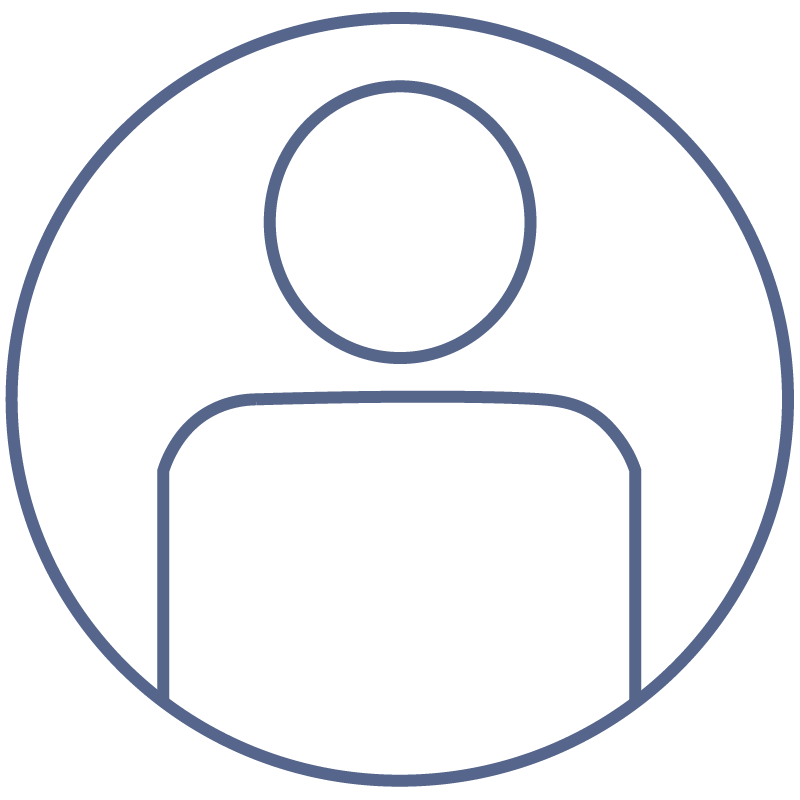
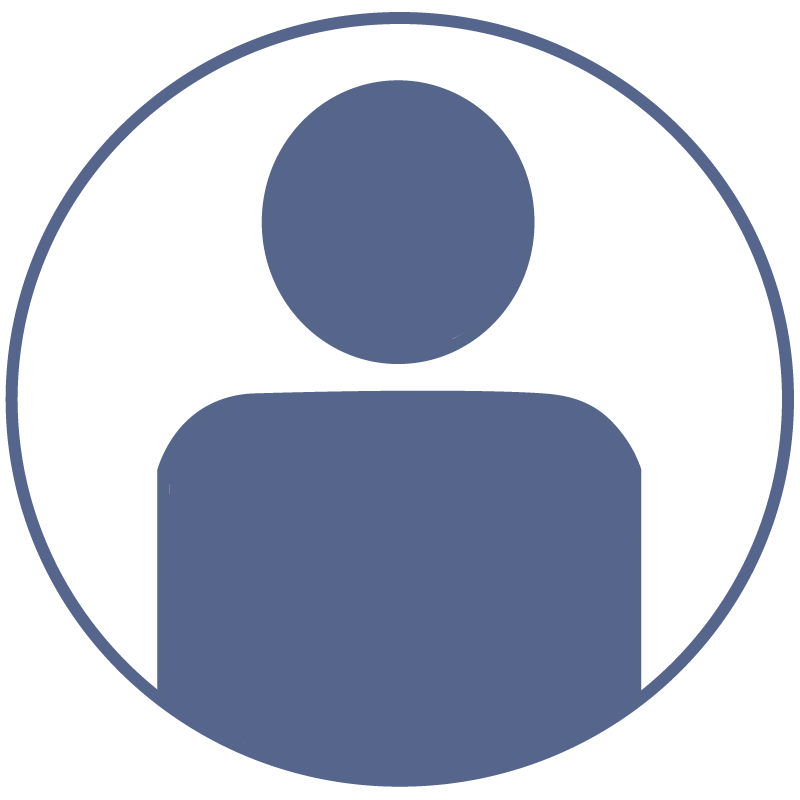
Renamed profile pic so that all isntances use new image

diff --git a/client/src/components/teamPage/TeamMember.js b/client/src/components/teamPage/TeamMember.js
@@ -20,7 +20,7 @@ import { useSelector, useDispatch } from 'react-redux';
 import { PropTypes } from 'prop-types';
 import TeamMemberForm from './form/TeamMemberForm';
 import { deleteTeamMember } from '../../actions/team';
-import profilePic from '../../images/profilepicfilled.jpg';
+import profilePic from '../../images/profilepic.jpg';
 import {
   SecondaryButton,
   DangerButton,
